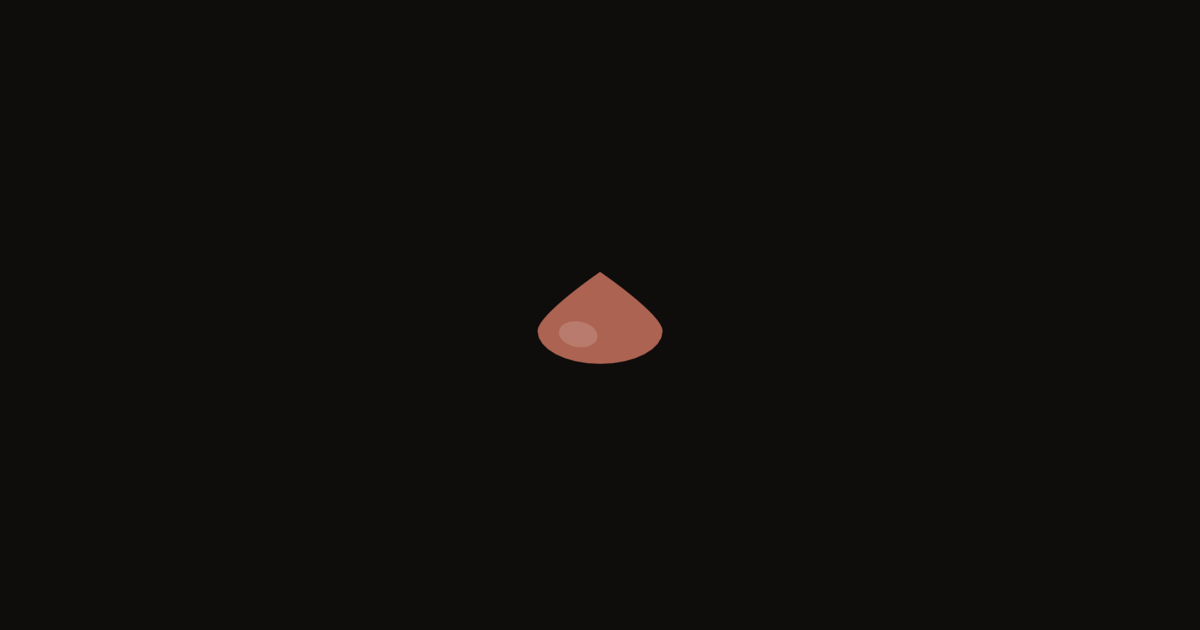
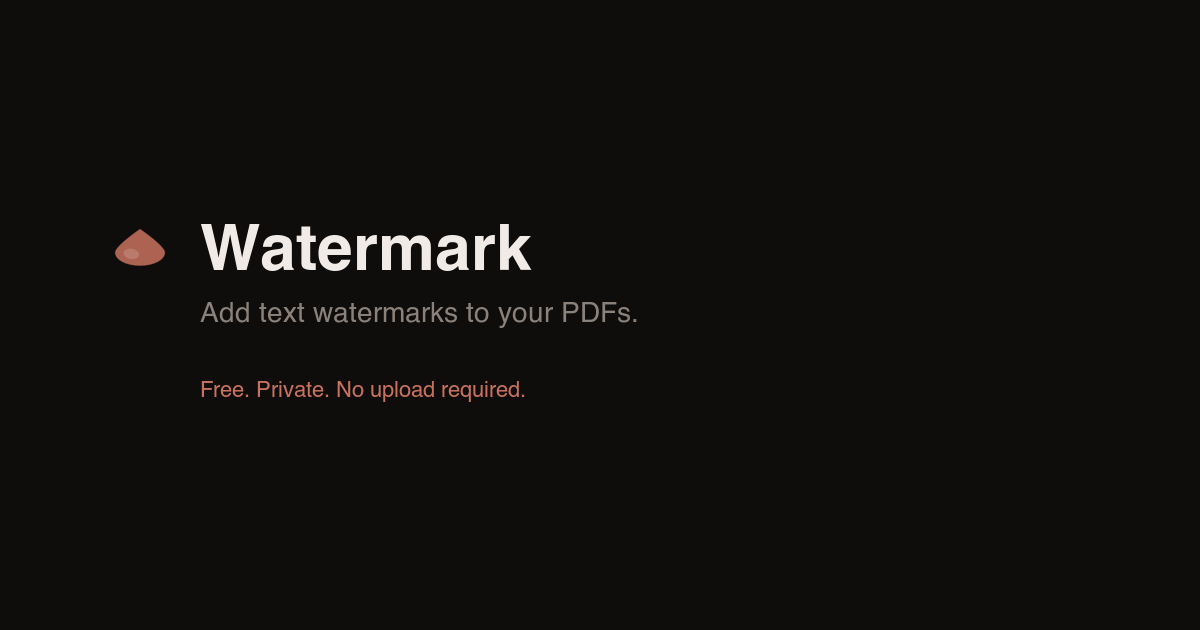
Improve social media preview: add headline/CTA to OG image, expand metadata
Redesign og.png with app name, description, and accent-colored CTA.
Expand title to 56 chars and description to 155 chars for optimal
social media display.

Changed region(s): [[0.0925, 0.3317, 0.4625, 0.4524], [0.1542, 0.4222, 0.555, 0.6032], [0.1542, 0.6032, 0.4317, 0.6333]]

diff --git a/app/layout.tsx b/app/layout.tsx
@@ -1,20 +1,24 @@
 import type { Metadata } from "next";
 import "./globals.css";
 
+const title = "Watermark — Free PDF watermarking, right in your browser";
+const description =
+  "Add diagonal text watermarks to every page of your PDF. Runs entirely in your browser — files never leave your device. No signup required, completely free.";
+
 export const metadata: Metadata = {
   metadataBase: new URL("https://watermark.flagvault.com"),
-  title: "Watermark",
-  description: "Add text watermarks to your PDFs — entirely in the browser",
+  title,
+  description,
   icons: { icon: "/logo.svg" },
   openGraph: {
-    title: "Watermark",
-    description: "Add text watermarks to your PDFs — entirely in the browser",
+    title,
+    description,
     images: [{ url: "/og.png", width: 1200, height: 630 }],
   },
   twitter: {
     card: "summary_large_image",
-    title: "Watermark",
-    description: "Add text watermarks to your PDFs — entirely in the browser",
+    title,
+    description,
     images: ["/og.png"],
   },
 };
